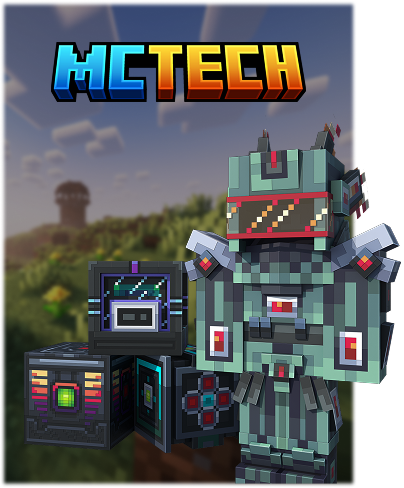
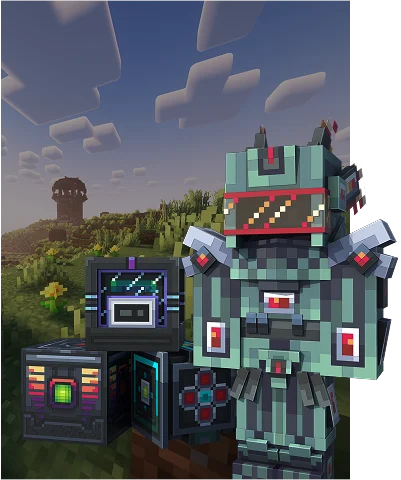
feat(adaptation): частично адаптировал блоки overview & adaptation

diff --git a/components/sections/overview/Overview.tsx b/components/sections/overview/Overview.tsx
@@ -3,36 +3,31 @@ import Image from "next/image";
 
 const Overview = () => {
   return (
-    <section className="h-[100vh] section-divided-bottom flex items-center relative">
-      <div className="grid gap-[80px] grid-cols-3 mx-auto w-fit">
+    <section className="min-h-[100vh] py-[20vh] section-divided-bottom flex flex-row items-center relative">
+      <div className="flex flex-col items-center min-[1600px]:grid gap-[80px] grid-cols-1 min-[1600px]:grid-cols-3 mx-auto w-[97vw] min-[1600px]:w-fit">
         <OverviewCard title="Новейшая версия Minecraft">
-          <div className="w-[375px] h-full absolute right-0">
-            <Image
-              src="/images/sectionOverview/overviewCard1.webp"
-              alt="overview card 1"
-              fill
-            />
-          </div>
+          <Image
+            src="/images/sectionOverview/overviewCard1.webp"
+            alt="overview card 1"
+            className="absolute border-2 min-w-[109%] left-1/2 -translate-x-[8%]"
+            fill
+          />
         </OverviewCard>
-        <OverviewCard title="Комфортное прохождение">
-          <div className="w-[438] h-[105%] absolute left-[-41px] top-[-14px] overflow-visible">
-            <Image
-              src="/images/sectionOverview/overviewCard2.webp"
-              alt="overview card 2"
-              className="object-contain"
-              fill
-            />
-          </div>
+        <OverviewCard title="Новейшая версия Minecraft">
+          <Image
+            src="/images/sectionOverview/overviewCard2.webp"
+            alt="overview card 2"
+            className="absolute border-2 min-w-[126%] left-1/2 -translate-x-[9.2%]"
+            fill
+          />
         </OverviewCard>
-        <OverviewCard title="Уникальный мод McTech">
-          <div className="w-[444] h-full absolute left-[-26px] overflow-visible">
-            <Image
-              src="/images/sectionOverview/overviewCard3.webp"
-              alt="overview card 3"
-              className="object-contain"
-              fill
-            />
-          </div>
+        <OverviewCard title="Новейшая версия Minecraft">
+          <Image
+            src="/images/sectionOverview/overviewCard3.webp"
+            alt="overview card 3"
+            className="absolute border-2 min-w-[115%] left-1/2 -translate-x-[0.3%]"
+            fill
+          />
         </OverviewCard>
       </div>
     </section>

diff --git a/components/sections/features/FeatureParts/featureRight/FeatureRight.tsx b/components/sections/features/FeatureParts/featureRight/FeatureRight.tsx
@@ -13,28 +13,30 @@ const FeatureRight = ({ children, imageName, filterOff }: Props) => {
   const [title, ...list] = React.Children.toArray(children);
 
   return (
-    <article className="relative flex justify-center border-4 border-light-cyan w-[500px] h-[500px] pt-[50px] ml-auto mr-0">
-      <div className="uppercase relative z-6 text-orange filter-five-orange title3 text-center">
-        {title}
-      </div>
-      <div
-        className={`absolute inset-0 w-full h-full z-5 ${
-          !filterOff ? "glow-blue" : ""
-        }`}
-      >
-        <Image
-          src={`/images/features/${imageName}`}
-          alt="feature"
-          width={500}
-          height={500}
-        />
-      </div>
-      <FeatureRightList>{list}</FeatureRightList>
-      <div className="absolute inset-0 opacity-40 bg-[radial-gradient(circle,transparent_0%,#000_100%)] z-4"></div>
-      <div className="absolute inset-0 opacity-40 bg-[linear-gradient(to_bottom,#931022,transparent)] z-3"></div>
-      <div className="absolute inset-0 opacity-100 bg-[linear-gradient(to_top,#180526,transparent)] z-2"></div>
-      <div className="absolute inset-0 opacity-40 bg-[#2e7cb9] z-1"></div>
-    </article>
+    <div className="absolute bottom-0 right-0">
+      <article className="relative flex justify-center border-4 border-light-cyan w-[500px] h-[500px] pt-[50px] ml-auto mr-0">
+        <div className="uppercase relative z-6 text-orange filter-five-orange title3 text-center">
+          {title}
+        </div>
+        <div
+          className={`absolute inset-0 w-full h-full z-5 ${
+            !filterOff ? "glow-blue" : ""
+          }`}
+        >
+          <Image
+            src={`/images/features/${imageName}`}
+            alt="feature"
+            width={500}
+            height={500}
+          />
+        </div>
+        <FeatureRightList>{list}</FeatureRightList>
+        <div className="absolute inset-0 opacity-40 bg-[radial-gradient(circle,transparent_0%,#000_100%)] z-4"></div>
+        <div className="absolute inset-0 opacity-40 bg-[linear-gradient(to_bottom,#931022,transparent)] z-3"></div>
+        <div className="absolute inset-0 opacity-100 bg-[linear-gradient(to_top,#180526,transparent)] z-2"></div>
+        <div className="absolute inset-0 opacity-40 bg-[#2e7cb9] z-1"></div>
+      </article>
+    </div>
   );
 };
 

diff --git a/components/sections/overview/OverviewCard.tsx b/components/sections/overview/OverviewCard.tsx
@@ -7,11 +7,16 @@ interface Props {
 
 const OverviewCard = ({ title, children }: Props) => {
   return (
-    <article className="w-[350px] h-[480px] relative border-[2px] border-black">
-      <div className="absolute bottom-0 w-full h-[70px] flex items-center justify-start pl-[10px] bg-fadeblue z-10 text-white">
-        <p className="font-minecraft-rus filter-text-common">{title}</p>
+    // <article className="min-[1360px]:w-[350px] min-[560px]:w-[70vw] min-[650px]:w-[60vw] min-[800px]:w-[40vw] w-[90vw] aspect-[35/48] relative border-[2px] border-black">
+    <article className="w-[100%] min-[500px]:w-[60%] min-[830px]:w-[50%] min-[1000px]:w-[40%] min-[1280px]:w-[30%] min-[1600]:min-w-[444px] aspect-[35/48] relative flex justify-center">
+      <div className="border-[2px] border-black h-[100%] w-[78%] z-6">
+        <div className="w-[78%] h-full absolute left-1/2 -translate-x-1/2">
+          {children}
+        </div>
+        <div className="w-[78%] h-[70px] pl-[10px] bg-fadeblue z-10 text-white flex items-center absolute bottom-0 left-1/2 -translate-x-1/2">
+          <p className="font-minecraft-rus filter-text-common">{title}</p>
+        </div>
       </div>
-      {children}
     </article>
   );
 };

diff --git a/components/sections/features/Features1.tsx b/components/sections/features/Features1.tsx
@@ -6,7 +6,7 @@ const Features1 = () => {
   return (
     <section>
       <div className="section-features flex flex-col items-center gap-[80px] py-[50px]">
-        <div className="w-[57vw] 2xl:w-[1520px] flex flex-col gap-[80px] 2xl:flex-row justify-between">
+        <div className="feature-pair-container">
           <FeatureLeft imageName="featureSmall1.webp">
             <h2>
               Электрические
@@ -50,7 +50,7 @@ const Features1 = () => {
           <p>11 ранцев</p>
           <p>27 модулей улучшения</p>
         </FeatureWide>
-        <div className="w-[1520px] flex justify-between">
+        <div className="feature-pair-container">
           <FeatureLeft imageName="featureSmall3.webp">
             <h2>
               Промышленное

diff --git a/components/sections/features/FeatureParts/featureWide/FeatureWide.tsx b/components/sections/features/FeatureParts/featureWide/FeatureWide.tsx
@@ -20,7 +20,7 @@ const FeatureWide = ({
   filterOff,
 }: Props) => {
   return (
-    <article className="relative px-[28px] py-[20px] min-h-[500px] w-full max-w-[97vw] mx-auto bg-fadecyan gradient-border2 border-[6px] ">
+    <article className="relative px-[28px] py-[20px] w-full max-w-[97vw] mx-auto bg-fadecyan gradient-border2 border-[6px] aspect-[16/5]">
       <h3 className="uppercase title2 text-cyan filter-five-blue text-[2.5rem] mb-[20px] relative z-3">
         {textH3}
       </h3>

diff --git a/components/sections/features/Features6.tsx b/components/sections/features/Features6.tsx
@@ -5,7 +5,7 @@ const Features6 = () => {
   return (
     <section>
       <div className="section-features flex flex-col items-center gap-[80px] py-[50px]">
-        <div className="w-[1520px] flex justify-between">
+        <div className="feature-pair-container">
           <FeatureLeft imageName="featureSmall11.webp" filterOff={true}>
             <h2>10 000 предметов кастомизации</h2>
             <p>Можно создавать свои скины</p>

diff --git a/components/sections/features/Features2.tsx b/components/sections/features/Features2.tsx
@@ -5,7 +5,7 @@ const Features2 = () => {
   return (
     <section>
       <div className="section-features flex flex-col items-center gap-[80px] py-[50px]">
-        <div className="w-[1520px] flex justify-between">
+        <div className="feature-pair-container">
           <FeatureLeft imageName="featureSmall5.webp">
             <h2>
               Генераторы

diff --git a/components/sections/features/Features5.tsx b/components/sections/features/Features5.tsx
@@ -5,7 +5,7 @@ const Features5 = () => {
   return (
     <section>
       <div className="section-features flex flex-col items-center gap-[80px] py-[50px]">
-        <div className="w-[1520px] flex justify-between">
+        <div className="feature-pair-container">
           <FeatureLeft imageName="featureSmall9.webp">
             <h2>
               Хранение и

diff --git a/components/sections/features/Features3.tsx b/components/sections/features/Features3.tsx
@@ -5,7 +5,7 @@ const Features3 = () => {
   return (
     <section>
       <div className="section-features flex flex-col items-center gap-[80px] py-[50px]">
-        <div className="w-[1520px] flex justify-between">
+        <div className="feature-pair-container">
           <FeatureLeft imageName="featureSmall7.webp">
             <h2>
               Механизмы

diff --git a/app/styles/globals.css b/app/styles/globals.css
@@ -1,9 +1,5 @@
 @import "tailwindcss";
 
-@theme {
-  --breakpoint-xl: 1600px;
-}
-
 @theme inline {
   --color-pale-cyan: #b7ffff;
   /* industrial_color1 */
@@ -50,4 +46,8 @@
     filter: drop-shadow(0px 0px 50px rgba(41, 124, 185, 0.4));
     animation: glowAnimation 4s infinite;
   }
+}
+
+section {
+  overflow: hidden;
 }

diff --git a/app/styles/tailwind-components.css b/app/styles/tailwind-components.css
@@ -99,4 +99,8 @@
   .section-features {
     @apply max-w-[1580px] mx-auto overflow-hidden;
   }
+
+  .feature-pair-container {
+    @apply relative w-[97vw] 2xl:w-[1520px] h-[800px] 2xl:h-[500px] flex flex-col gap-[80px] 2xl:flex-row justify-between;
+  }
 }
